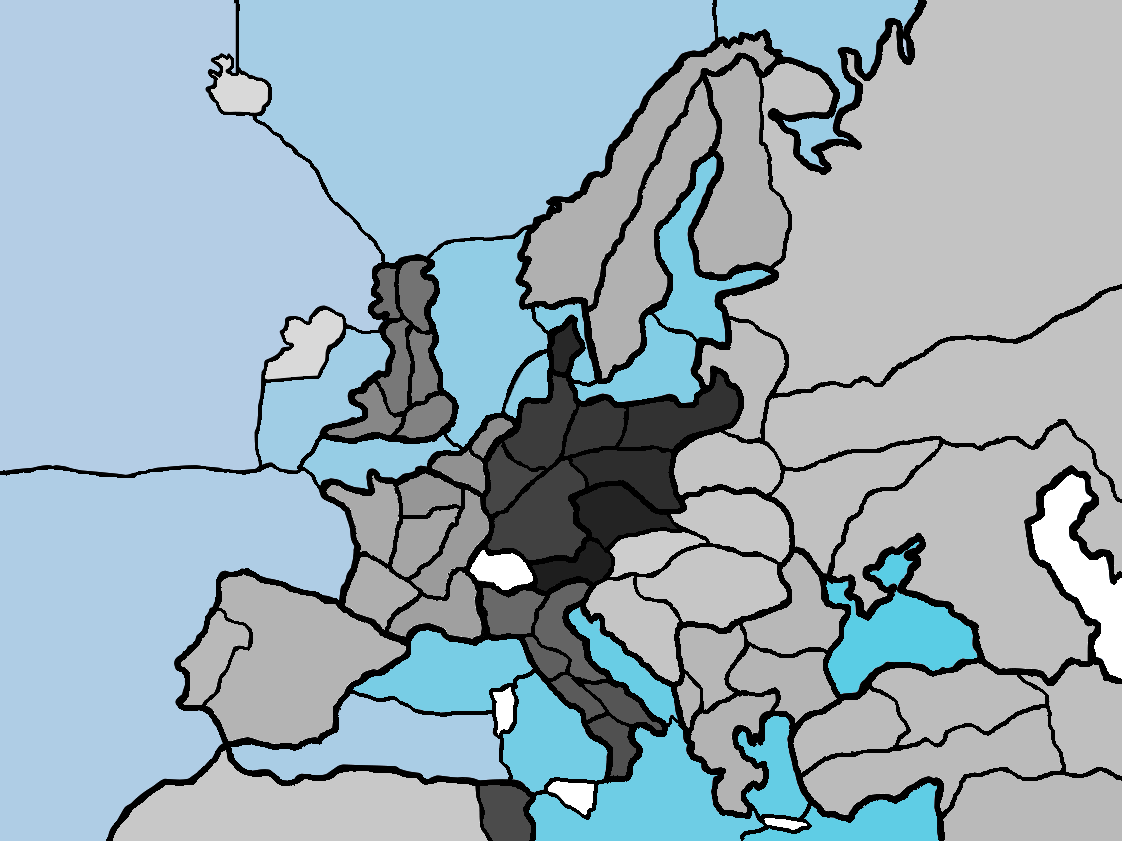
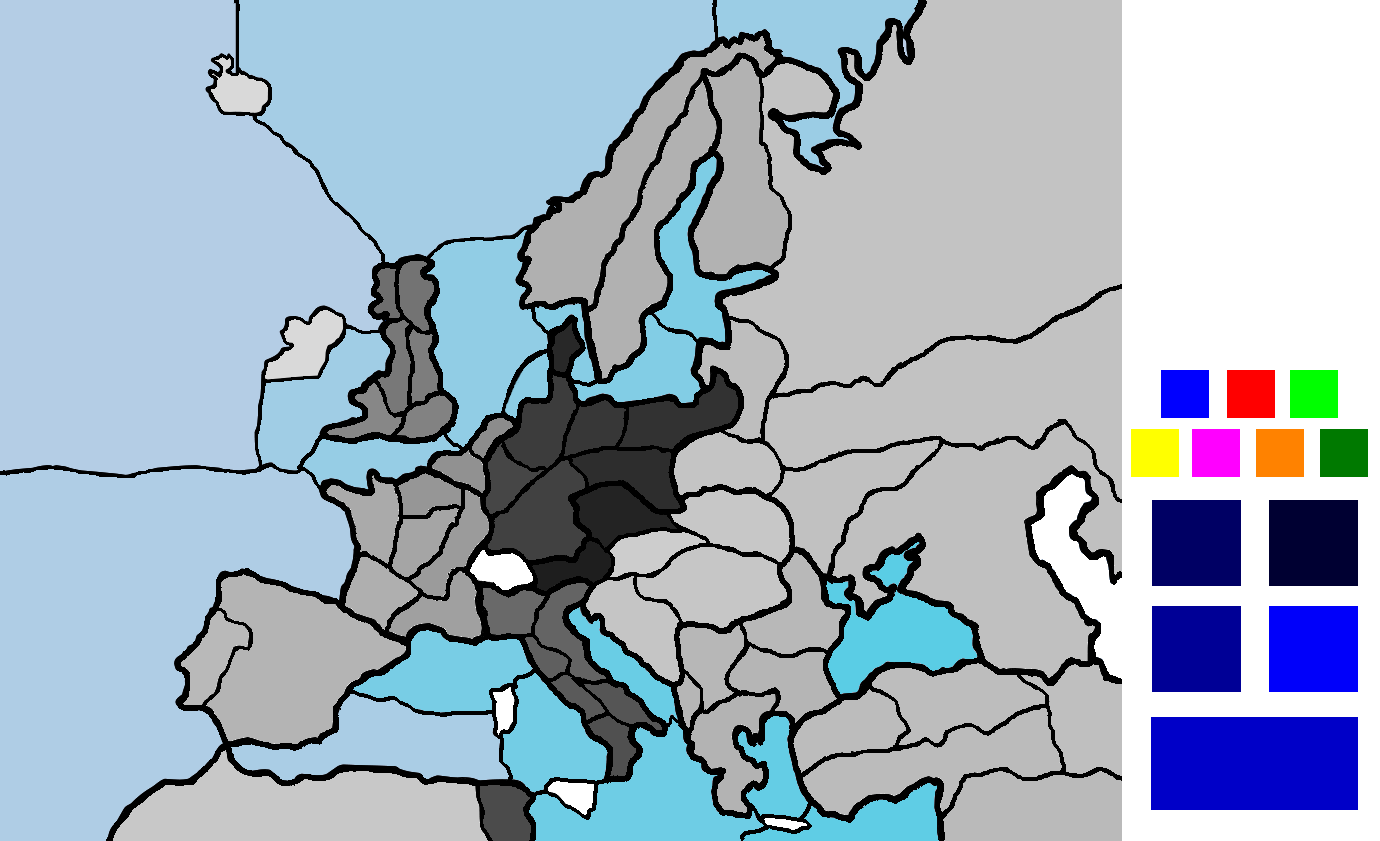
Added commands (classes and images).  Also added images for selecting a player. Still needs implemented

diff --git a/Bitplomacy/src/gui/Canvas.java b/Bitplomacy/src/gui/Canvas.java
@@ -1,4 +1,8 @@
-package Driver;
+package gui;
+
+import gameObjects.Player;
+import gameObjects.Territory;
+import gameObjects.Unit;
 
 import org.lwjgl.input.Mouse;
 import org.newdawn.slick.Color;
@@ -7,9 +11,6 @@ import org.newdawn.slick.Graphics;
 import org.newdawn.slick.Image;
 import org.newdawn.slick.SpriteSheet;
 
-import Objects.Player;
-import Objects.Territory;
-import Objects.Unit;
 
 import com.erebos.engine.core.*;
 import com.erebos.engine.graphics.EAnimation;
@@ -19,6 +20,7 @@ public class Canvas extends ECanvas{
 
 	private Territory[] territories;
 	private Player[] players;
+	private Commands[] commands = {new AttackCommand(1152, 500, 100), new DefendCommand(1152, 606, 150), new SupportCommand(1269, 500, 50), new ConvoyCommand(1269, 606, 250), new SubmitCommand(1151, 717, 200)};
 	private Graphics g;
 	private Territory disTerr;
 	private int state;
@@ -28,13 +30,13 @@ public class Canvas extends ECanvas{
 	
 	public static final int START = 0;
 	public static final int NORM = 1;
-	public static final int DIS_TERR = 2;
+	public static final int TERR_SELECTED = 2;
 	
 	/* MasterMap contains the color keys for the individual territories.  It is 
 	 * referenced in the Territory */
 	private Image MasterMap;
 	private Image Borders;
-	
+		
 	/* SpriteSheets for Units */
 	private SpriteSheet landUnit;
 	private SpriteSheet waterUnit;
@@ -141,6 +143,12 @@ public class Canvas extends ECanvas{
 		
 		MasterMap=EAnimation.loadImage("/images/MasterMap.png");
 		Borders=EAnimation.loadImage("/images/Borders.png");
+		
+		commands[0].setEA(new EAnimation(EAnimation.loadImage("/images/AttackIcon.png")));
+		commands[1].setEA(new EAnimation(EAnimation.loadImage("/images/SupportIcon.png")));
+		commands[2].setEA(new EAnimation(EAnimation.loadImage("/images/DefendIcon.png")));
+		commands[3].setEA(new EAnimation(EAnimation.loadImage("/images/ConvoyIcon.png")));
+		commands[4].setEA(new EAnimation(EAnimation.loadImage("/images/SubmitIcon.png")));
 		
 		Image temp = EAnimation.loadImage("/images/LandUnit.png");
 		landUnit = new SpriteSheet(temp, temp.getWidth()/7, temp.getHeight());
@@ -393,10 +401,12 @@ public class Canvas extends ECanvas{
 
 	@Override
 	public void eRender(GameContainer gc, EGame eg, Graphics g) {
+		
 		this.g = g;
 		
-		g.setColor(Color.white);
-		g.fillRect(0, 0, 1126, gc.getHeight());
+		//draw masterMap for color keys
+		g.drawImage(MasterMap, 0, 0);	
+		
 		g.setColor(Color.green);
 		g.fillRect(1106, 0, 1400-1126, gc.getHeight());
 		
@@ -411,19 +421,16 @@ public class Canvas extends ECanvas{
 			i = i + 20;
 		}
 		
-		//draw masterMap for color keys
-		g.drawImage(MasterMap, 0, 0);	
-		//draw territory images
+		for (Commands c : commands)
+			c.draw();
 		for (Territory t: territories)
 			t.eDraw();
-		//draw overlying borders
 		g.drawImage(Borders, 0, 0);
-		//units last since they are on top
 		for (Territory t: territories)
 			t.uDraw();
 		
 		switch (state) {
-		case DIS_TERR: {
+		case TERR_SELECTED: {
 			g.drawString(disTerr.getName(), 1145, 70);
 			g.drawString(disTerr.getOwnerName(), 1145, 140);
 		}
@@ -444,6 +451,10 @@ public class Canvas extends ECanvas{
 		for (Territory t: territories){
 			if (mx >= t.getX() && mx <= t.getWidth()+t.getX() && my >= t.getY() && my <= t.getHeight()+t.getY())
 				t.update();
+		}
+		for (Commands c: commands){
+			if (mx >= c.getX() && mx <= c.getWidth()+c.getX() && my >= c.getY() && my <= c.getHeight()+c.getY())
+				c.update();
 		}
 	}
 

diff --git a/Bitplomacy/src/gameObjects/Territory.java b/Bitplomacy/src/gameObjects/Territory.java
@@ -1,9 +1,10 @@
-package Objects;
+package gameObjects;
+import gui.Canvas;
+
 import org.lwjgl.input.Mouse;
 import org.newdawn.slick.Color;
 import org.newdawn.slick.SpriteSheet;
 
-import Driver.Canvas;
 
 import com.erebos.engine.entity.ImageEntity;
 import com.erebos.engine.graphics.EAnimation;
@@ -55,19 +56,11 @@ public class Territory extends ImageEntity {
 	 * Territory, then display the name.  See updateGame in the Canvas class for more info.
 	 */
 	public void update(){
-		Color c;
-		try{
-			c = Canvas.getC().getCurrentColor();
-			if (c.getRed()==colorKey.getRed() && c.getBlue()==colorKey.getBlue() && c.getGreen()==colorKey.getGreen() && Mouse.isButtonDown(0)){
-				Canvas.getC().setDisTerr(this);
-				Canvas.getC().setState(Canvas.DIS_TERR );
-			}
+		Color c = Canvas.getC().getCurrentColor();
+		if (c.getRed()==colorKey.getRed() && c.getBlue()==colorKey.getBlue() && c.getGreen()==colorKey.getGreen() && Mouse.isButtonDown(0)){
+			Canvas.getC().setDisTerr(this);
+			Canvas.getC().setState(Canvas.TERR_SELECTED);
 		}
-		catch (ArrayIndexOutOfBoundsException e){
-			System.out.println(e.getMessage());
-			System.out.println("nope " + name);
-		}
-
 	}
 	
 	/*

diff --git a/Bitplomacy/src/gui/Commands.java b/Bitplomacy/src/gui/Commands.java
@@ -1,0 +1,36 @@
+package gui;
+
+import org.lwjgl.input.Mouse;
+import org.newdawn.slick.Color;
+
+import com.erebos.engine.entity.ImageEntity;
+import com.erebos.engine.graphics.EAnimation;
+
+public abstract class Commands extends ImageEntity{
+
+	private EAnimation ea;
+	private int colorKey;
+	
+	public Commands(float x, float y, int color) {
+		setX(x);
+		setY(y);
+		colorKey = color;
+	}
+	
+	public void draw(){
+		ea.draw(this.getX(), this.getY());
+	}
+	
+	public void setEA(EAnimation ea){
+		setAnimation(ea);
+		this.ea = ea;
+	}
+	
+	public void update(){
+		Color c = Canvas.getC().getCurrentColor();
+		if (c.getRed()==0 && c.getBlue()==colorKey && c.getGreen()==0 && Mouse.isButtonDown(0))
+			execute();
+	}
+	
+	public abstract void execute();
+}

diff --git a/Bitplomacy/src/driver/Driver.java b/Bitplomacy/src/driver/Driver.java
@@ -1,4 +1,6 @@
-package Driver;
+package driver;
+import gui.Canvas;
+
 import com.erebos.engine.core.*;
 
 
@@ -12,7 +14,7 @@ public class Driver extends EGame{
 
 	public static void main(String[] args){
 		Driver d = new Driver();
-		d.setTargetFPS(60);
+		d.setTargetFPS(30);
 		d.start(d, 1380, 831, false);
 	}
 	

diff --git a/Bitplomacy/src/gui/SubmitCommand.java b/Bitplomacy/src/gui/SubmitCommand.java
@@ -1,0 +1,14 @@
+package gui;
+
+public class SubmitCommand extends Commands{
+
+	public SubmitCommand(float x, float y, int color) {
+		super(x, y, color);
+	}
+
+	@Override
+	public void execute() {
+		System.out.println("Submit Command wus really good son");
+	}
+
+}

diff --git a/Bitplomacy/src/gui/SupportCommand.java b/Bitplomacy/src/gui/SupportCommand.java
@@ -1,0 +1,14 @@
+package gui;
+
+public class SupportCommand extends Commands{
+
+	public SupportCommand(float x, float y, int color) {
+		super(x, y, color);
+	}
+
+	@Override
+	public void execute() {
+		System.out.println("Support command wus really good");
+	}
+
+}

diff --git a/Bitplomacy/src/gui/ConvoyCommand.java b/Bitplomacy/src/gui/ConvoyCommand.java
@@ -1,0 +1,14 @@
+package gui;
+
+public class ConvoyCommand extends Commands{
+
+	public ConvoyCommand(float x, float y, int color) {
+		super(x, y, color);
+	}
+
+	@Override
+	public void execute() {
+		System.out.println("Convoy command wus really goodie");
+	}
+
+}

diff --git a/Bitplomacy/src/gui/DefendCommand.java b/Bitplomacy/src/gui/DefendCommand.java
@@ -1,0 +1,14 @@
+package gui;
+
+public class DefendCommand extends Commands{
+
+	public DefendCommand(float x, float y, int color) {
+		super(x, y, color);
+	}
+
+	@Override
+	public void execute() {
+		System.out.println("Defend command wus goodie");
+	}
+
+}

diff --git a/Bitplomacy/src/gui/AttackCommand.java b/Bitplomacy/src/gui/AttackCommand.java
@@ -1,0 +1,14 @@
+package gui;
+
+public class AttackCommand extends Commands{
+
+	public AttackCommand(float x, float y, int color) {
+		super(x, y, color);
+	}
+
+	@Override
+	public void execute() {
+		System.out.println("Attack command wus good");
+	}
+
+}

diff --git a/Bitplomacy/src/gameObjects/Unit.java b/Bitplomacy/src/gameObjects/Unit.java
@@ -1,4 +1,4 @@
-package Objects;
+package gameObjects;
 
 import org.newdawn.slick.SpriteSheet;
 

diff --git a/Bitplomacy/src/gameObjects/Player.java b/Bitplomacy/src/gameObjects/Player.java
@@ -1,4 +1,4 @@
-package Objects;
+package gameObjects;
 
 import java.util.ArrayList;
 
